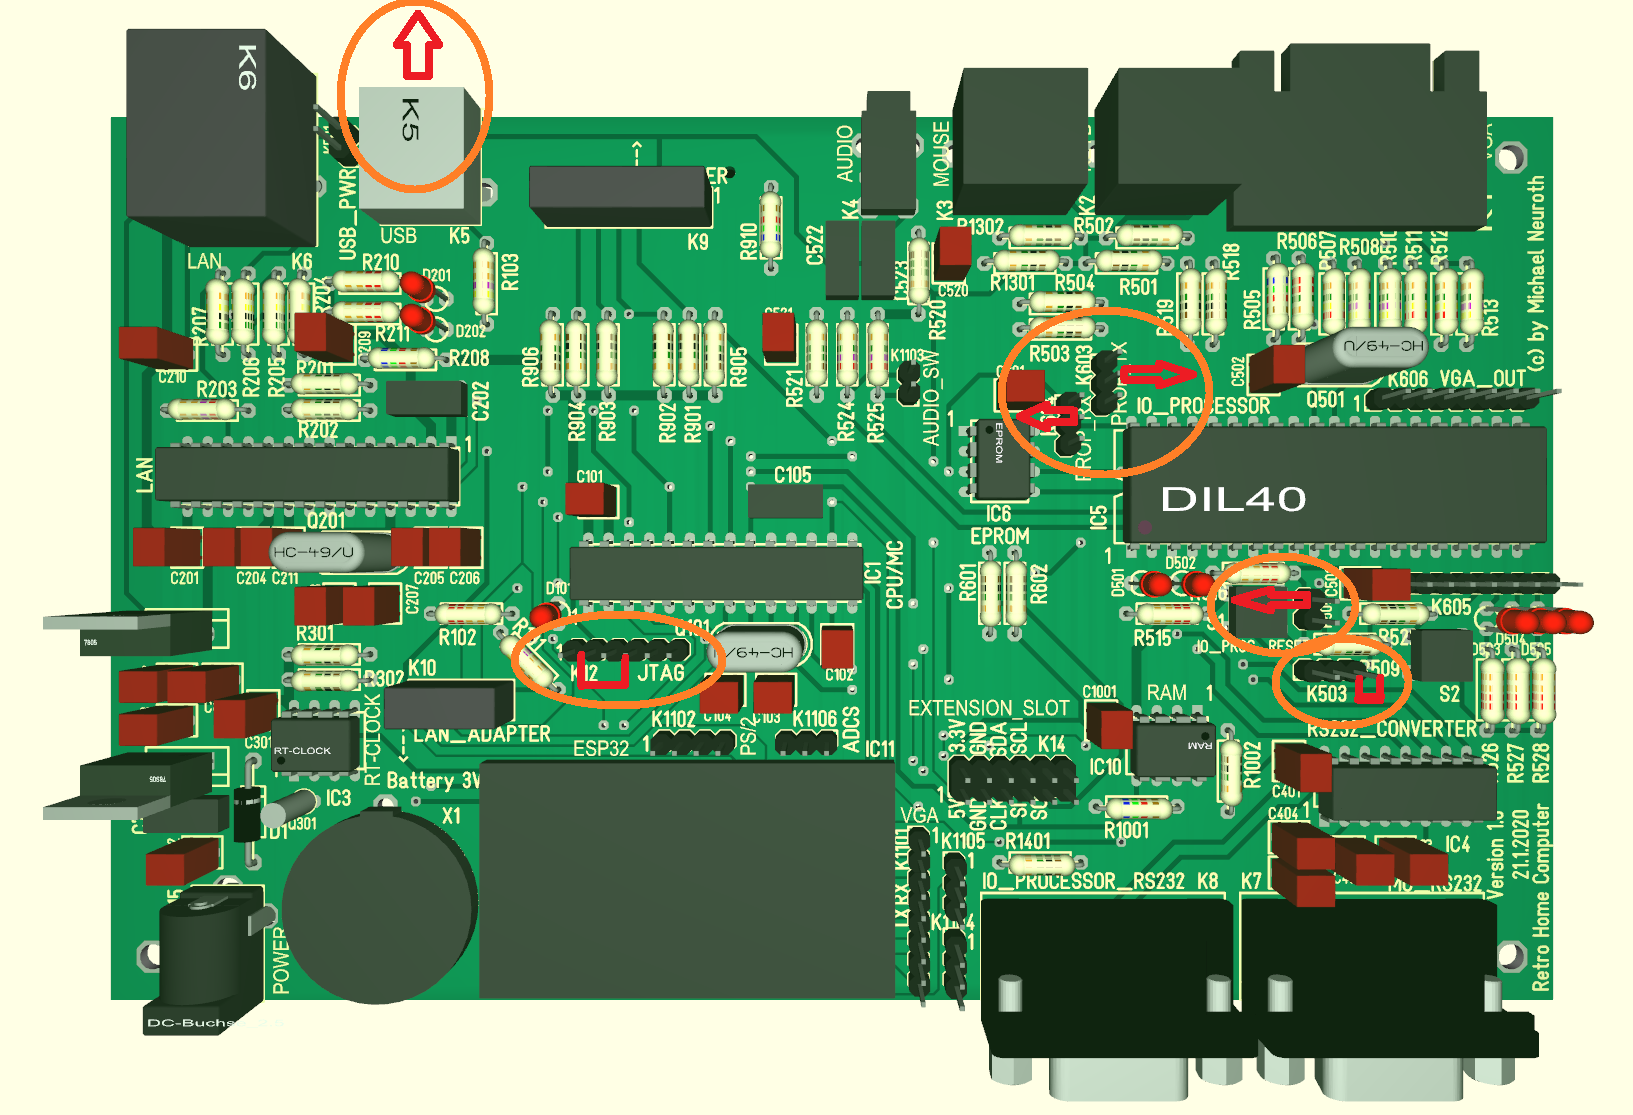
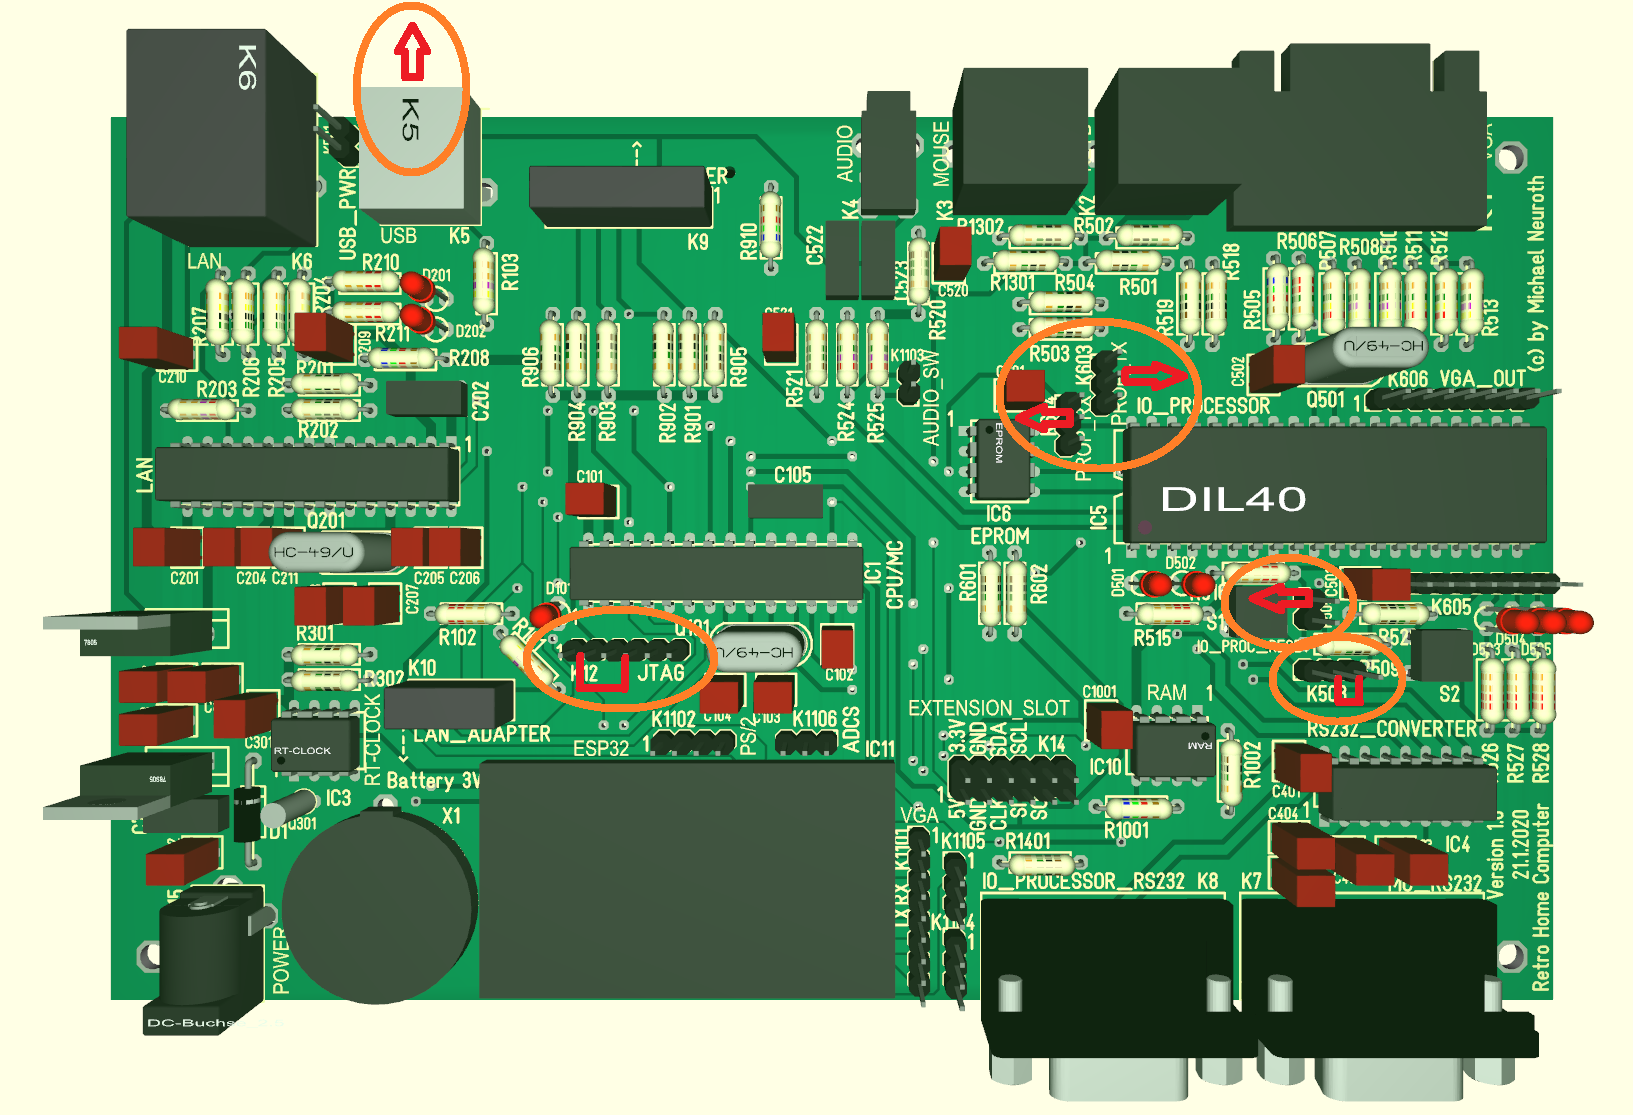
Updated documentation

diff --git a/Setup/README.md b/Setup/README.md
@@ -5,7 +5,7 @@ Normal operation mode
 
 - Disable the programming mode of the boot loader for the MCU (IC1) by connecing Pin 3 and Pin 4 of pin bar K15 (Jumper may be removed after booting of the PicoHomeCompuer to enable support for ETHERNET_NOT_INTERRUPT line).
 - Connect serial communication between IO Processor and MCU (IC1) by connecting Pin 1 and Pin 2 of pin bars K603 and K604.
-- Disable programming mode of the IO Processor (IC5) by connecting Pin 1 and Pin 2 of pin bar K503.
+- Set BOEn to GND for the IO Processor (IC5) by connecting Pin 1 and Pin 2 of pin bar K503.
 
 <img src="ConfigurationForRunning.png" alt="Normal Operation" >
 
@@ -15,7 +15,7 @@ Programming operation mode
 - Enable the programming modus of the boot loader for the MCU (IC1) by connecing Pin 2 and Pin 4 of pin bar K15.
 - Connect USB on K5 to Host Computer to flash the MCU (IC1) with Arduino Studio
 
-- Enable programming mode of the IO Processor (IC5) by connecting Pin 3 and Pin 2 of pin bar K503.
+- Set BOEn to GND for the IO Processor (IC5) by connecting Pin 1 and Pin 2 of pin bar K503.
 - Connect USB RS232 Adapter FTDI232 to serial port of IO PRocessor (IC5) on of Pin 2 of pin bar K603 (TX) and Pin 2 of pin bar K604 (RX) and Pin 2 (RESn) of pin bar K505 (DTR).
 - Connect USB RS232 Adapter FTDI232 to Host Computer to flash the IO Processor (IC5) with Propeller IDE.
 
